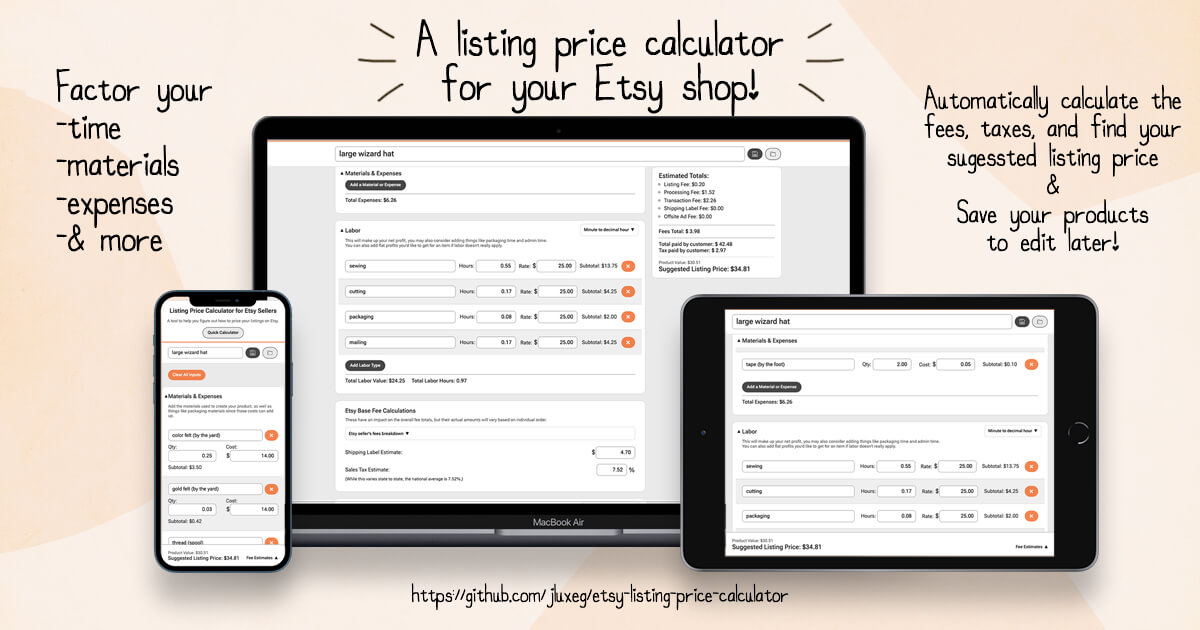
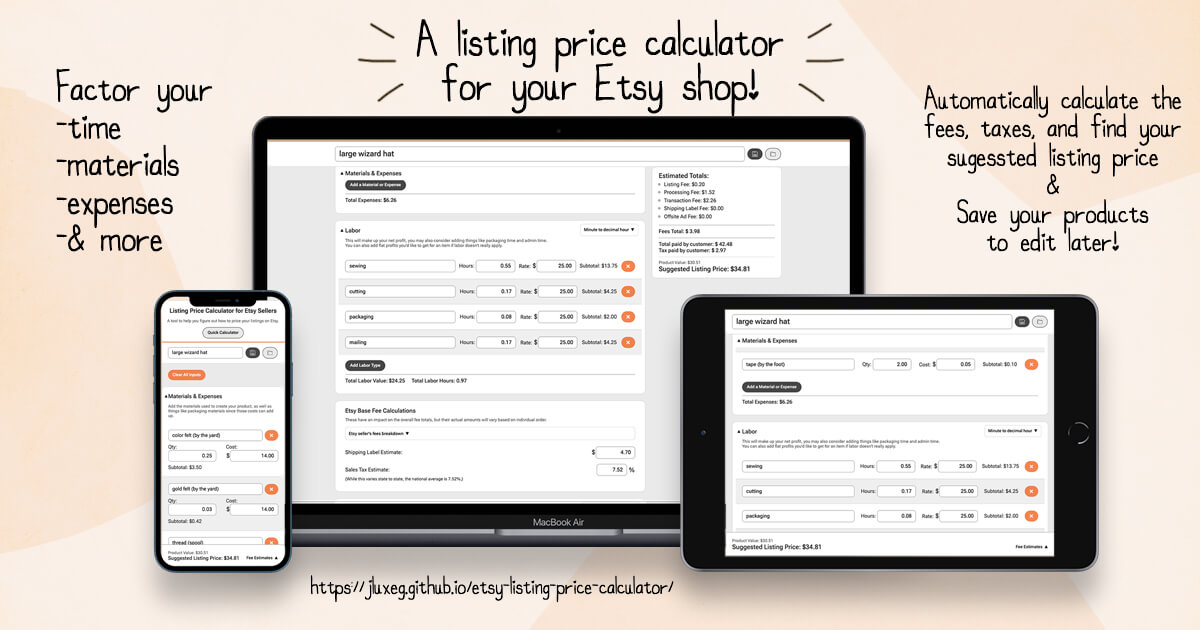
chore: prep for launch

Changed region(s): [[0.2467, 0.9048, 0.6475, 0.9651]]

diff --git a/index.html b/index.html
@@ -7,18 +7,6 @@
 	You may not copy, distribute, or use this code commercially
 	without explicit permission from the author.
 -->
-<!--
-	
-	
-	//todo: once ready host on github pages
-	//todo: finalize readme
-	
-	//todo: update mockup image with proper url
-	//todo: og image and twitter image need full url
-	//todo: full url for multiple head items
-	
-	
--->	
 <html lang="en">
 <head>
 	<meta charset="UTF-8">
@@ -30,18 +18,20 @@
 	<title>Listing Price Calculator for Etsy Sellers</title>
 	<meta name="description" content="Easily calculate your Etsy listing prices including materials, labor, fees, taxes, and profits. Accessible and responsive tool for sellers.">
 	<meta name="author" content="Justin Ludwig">
-	<!--might need this later <link rel="canonical" href="https://yourdomain.com/etsy-calculator"> -->
+	<link rel="canonical" href="https://jluxeg.github.io/etsy-listing-price-calculator/">
+	<meta name="robots" content="index, follow">
 	
 	<meta property="og:title" content="Listing Price Calculator for Etsy Sellers">
 	<meta property="og:description" content="Easily calculate your Etsy listing prices including materials, labor, fees, taxes, and profits.">
 	<meta property="og:type" content="website">
-	<!--<meta property="og:url" content="[todo full url]">-->
-	<meta property="og:image" content="img/elpc-mockup.jpg">
+	<meta property="og:url" content="https://jluxeg.github.io/etsy-listing-price-calculator/">
+	<meta property="og:image" content="https://jluxeg.github.io/etsy-listing-price-calculator/img/elpc-mockup.jpg">
 	
 	<meta name="twitter:card" content="summary_large_image">
 	<meta name="twitter:title" content="Listing Price Calculator for Etsy Sellers">
 	<meta name="twitter:description" content="Easily calculate your Etsy listing prices including materials, labor, fees, taxes, and profits.">
-	<meta name="twitter:image" content="img/elpc-mockup.jpg">
+	<meta name="twitter:url" content="https://jluxeg.github.io/etsy-listing-price-calculator/">
+	<meta name="twitter:image" content="https://jluxeg.github.io/etsy-listing-price-calculator/img/elpc-mockup.jpg">
 	
 	<link rel="icon" type="image/png" href="favicon-96x96.png" sizes="96x96" />
 	<link rel="icon" type="image/svg+xml" href="favicon.svg" />
@@ -54,7 +44,7 @@
 		"@context": "https://schema.org",
 		"@type": "WebApplication",
 		"name": "Etsy Listing Price Calculator",
-		"url": "https://yourdomain.com/etsy-calculator",
+		"url": "https://jluxeg.github.io/etsy-listing-price-calculator/",
 		"applicationCategory": "FinanceApplication",
 		"operatingSystem": "All",
 		"description": "A tool to calculate Etsy listing prices including materials, labor, fees, taxes, and profits."

diff --git a/README.md b/README.md
@@ -1,7 +1,7 @@
 # Etsy Listing Price Calculator
 A simple, browser-based tool to help Etsy sellers determine optimal listing prices while accounting for the seller's fees.
 
-[Use the calculator now](todo)  
+[Use the calculator now](https://jluxeg.github.io/etsy-listing-price-calculator/)  
 coming soon - Video Demo
 
 ![Mockups showing the Etsy Listing Price Calculator on various devices](./img/elpc-mockup.jpg)
@@ -64,5 +64,6 @@ Found a bug or have an idea to make the tool better? [let me know](https://githu
 If you’d like to suggest an improvement or fix a bug, please check out the [CONTRIBUTING.md](./CONTRIBUTING.md) file for details.
 
 ## License
+Copyright (C) 2025 Justin Ludwig  
 This project is licensed under a [Business Source License (BSL 1.1)](./LICENSE).  
 You’re free to use this project to calculate and explore results, but the source code itself may not be copied, redistributed, or used commercially without permission.
